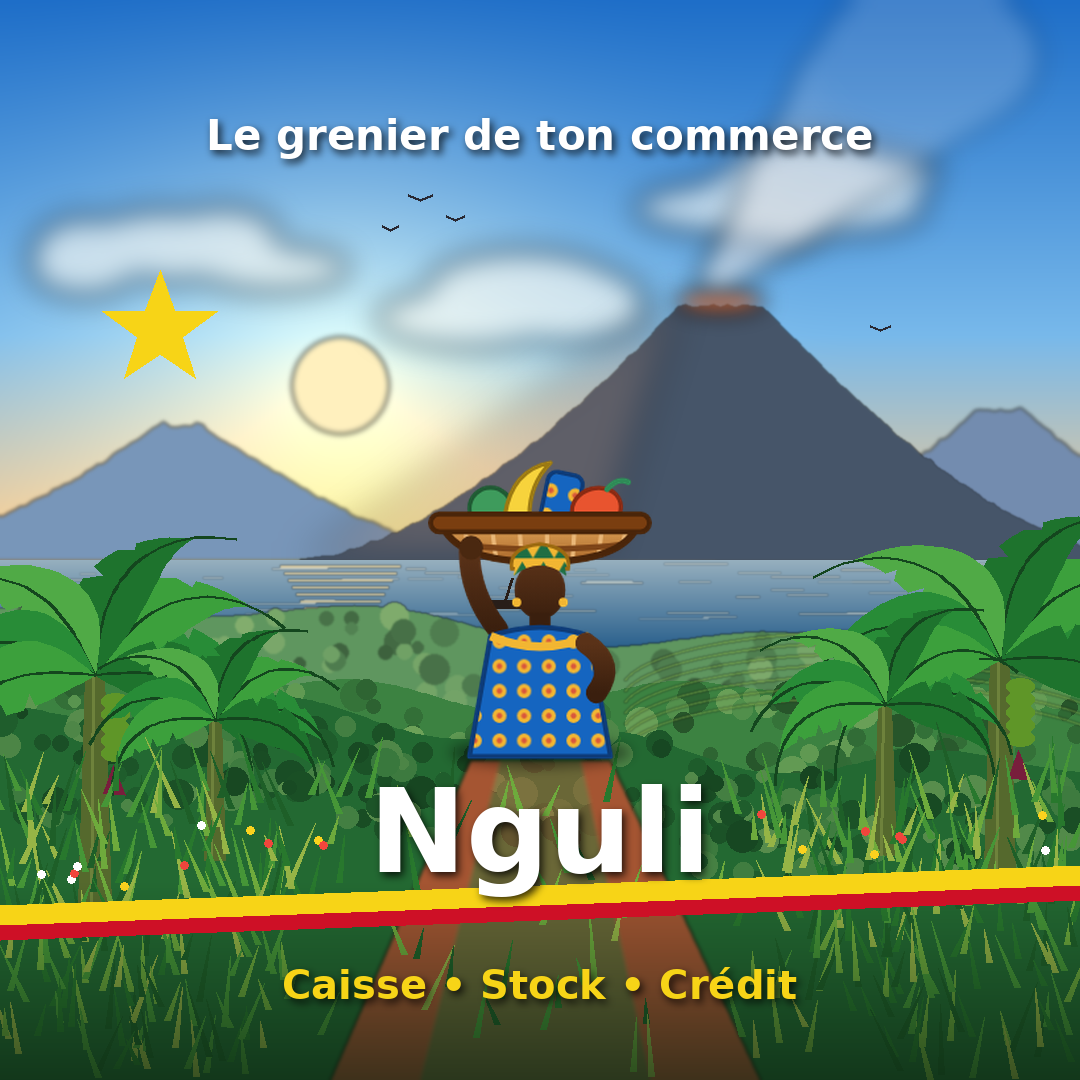
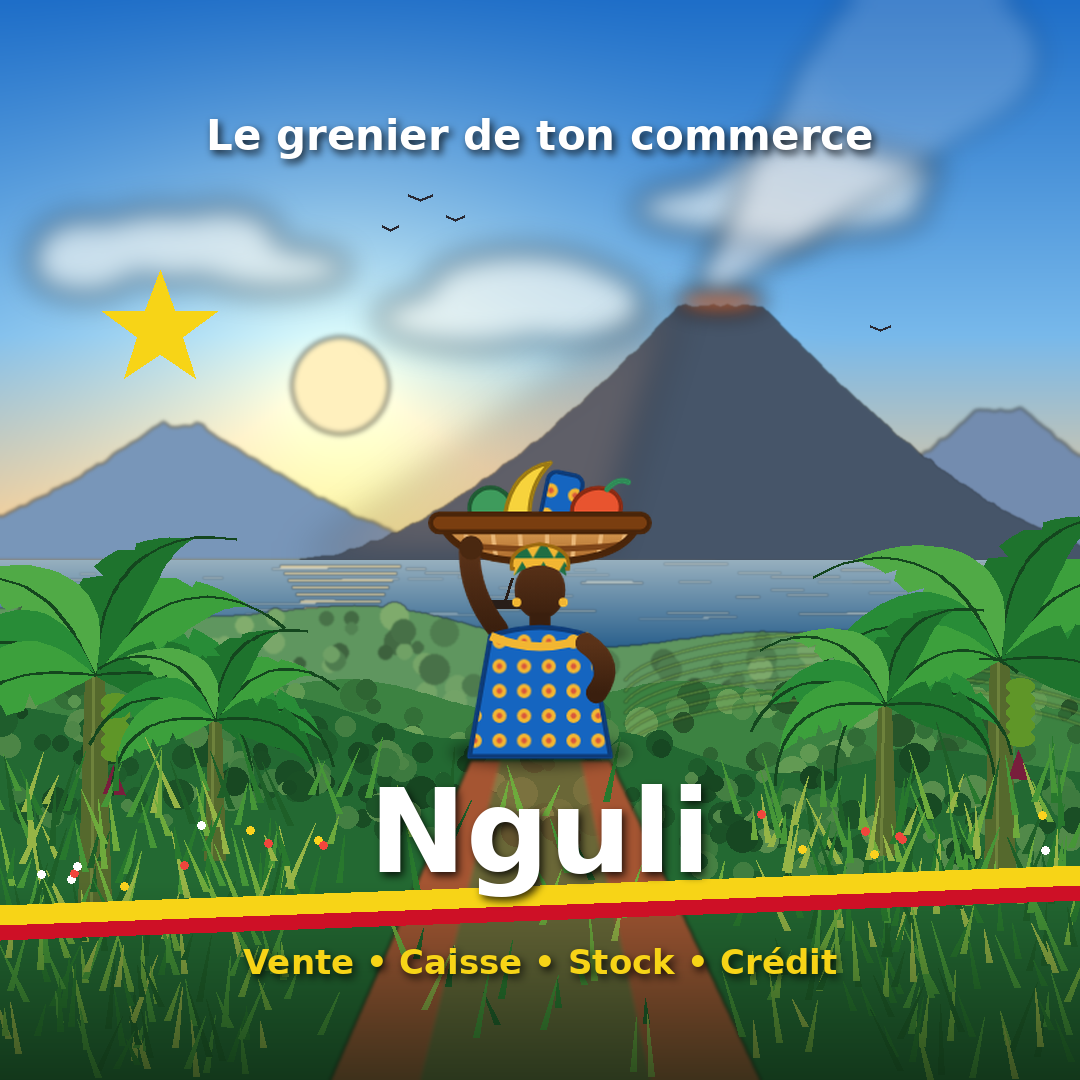
Photo de profil Kivu : ajout de « Vente »
Claude-Session: https://claude.ai/code/session_01EVb9gPTEba1HN2cwxpuyAh

Changed region(s): [[0.2139, 0.8556, 0.7944, 0.9472]]

diff --git a/docs/outils/profil_kivu.py b/docs/outils/profil_kivu.py
@@ -239,7 +239,7 @@ coller(c)
 
 texte((S // 2, 135), "Le grenier de ton commerce", 42, 'white')
 texte((S // 2, 832), "Nguli", 116, 'white')
-texte((S // 2, 985), "Caisse • Stock • Crédit", 40, JAUNE)
+texte((S // 2, 962), "Vente • Caisse • Stock • Crédit", 34, JAUNE)
 
 img.save('/home/user/stockly_saas/docs/nguli_profil_whatsapp_kivu.png')
 m = Image.new('L', (S, S), 0); ImageDraw.Draw(m).ellipse([0, 0, S, S], fill=255)
